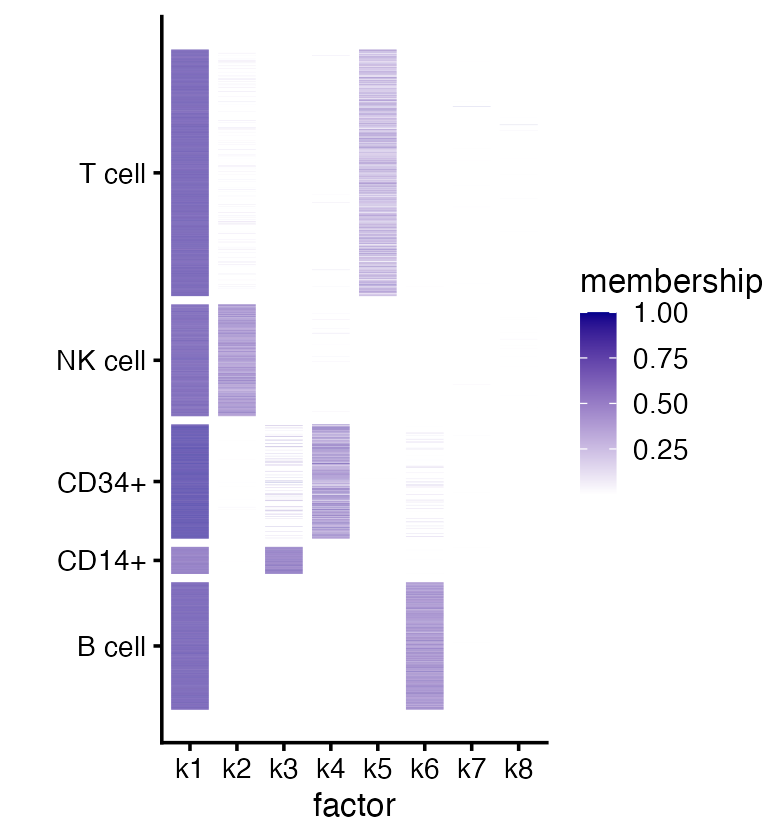
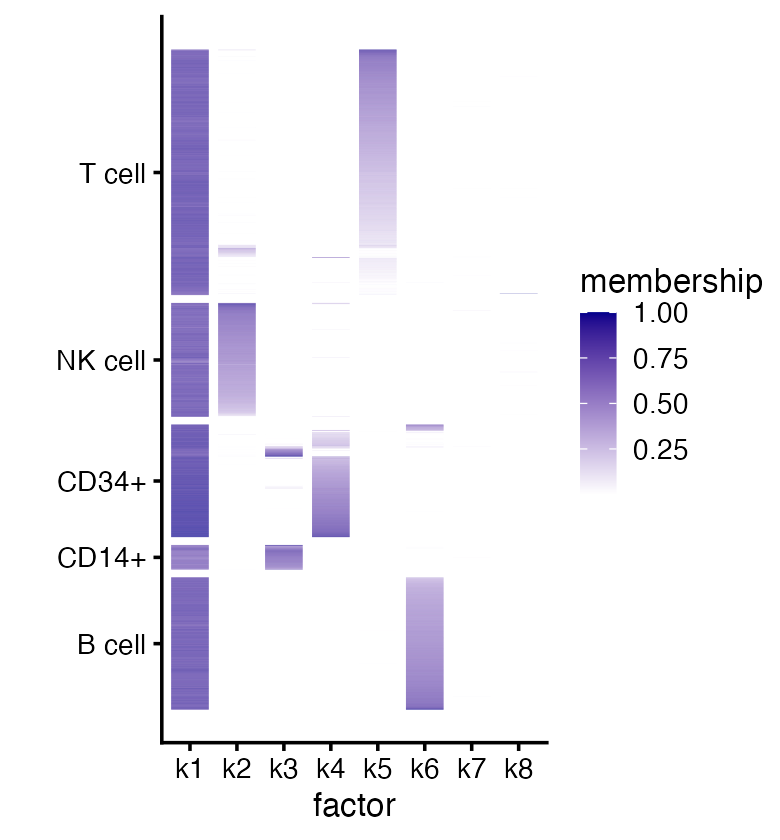
Reran pkgdown::build_article(flashier_single_cell).

diff --git a/docs/articles/flashier_single_cell.html b/docs/articles/flashier_single_cell.html
@@ -33,7 +33,7 @@
       </button>
       <span class="navbar-brand">
         <a class="navbar-link" href="../index.html">flashier</a>
-        <span class="version label label-default" data-toggle="tooltip" data-placement="bottom" title="">1.0.24</span>
+        <span class="version label label-default" data-toggle="tooltip" data-placement="bottom" title="">1.0.27</span>
       </span>
     </div>
 
@@ -88,6 +88,7 @@ that results can be fully reproduced.</p>
 <span><span class="kw"><a href="https://rdrr.io/r/base/library.html" class="external-link">library</a></span><span class="op">(</span><span class="va"><a href="https://github.com/willwerscheid/flashier" class="external-link">flashier</a></span><span class="op">)</span></span>
 <span><span class="kw"><a href="https://rdrr.io/r/base/library.html" class="external-link">library</a></span><span class="op">(</span><span class="va"><a href="https://stephenslab.github.io/fastTopics/" class="external-link">fastTopics</a></span><span class="op">)</span></span>
 <span><span class="kw"><a href="https://rdrr.io/r/base/library.html" class="external-link">library</a></span><span class="op">(</span><span class="va"><a href="https://ggplot2.tidyverse.org" class="external-link">ggplot2</a></span><span class="op">)</span></span>
+<span><span class="kw"><a href="https://rdrr.io/r/base/library.html" class="external-link">library</a></span><span class="op">(</span><span class="va"><a href="https://ggrepel.slowkow.com/" class="external-link">ggrepel</a></span><span class="op">)</span></span>
 <span><span class="kw"><a href="https://rdrr.io/r/base/library.html" class="external-link">library</a></span><span class="op">(</span><span class="va"><a href="https://wilkelab.org/cowplot/" class="external-link">cowplot</a></span><span class="op">)</span></span>
 <span><span class="fu"><a href="https://rdrr.io/r/base/Random.html" class="external-link">set.seed</a></span><span class="op">(</span><span class="fl">3</span><span class="op">)</span></span></code></pre></div>
 <div class="section level2">
@@ -102,8 +103,8 @@ identifier (UMI) counts stored as an <span class="math inline">\(n
 <span><span class="va">counts</span> <span class="op">&lt;-</span> <span class="va">pbmc_facs</span><span class="op">$</span><span class="va">counts</span></span>
 <span><span class="fu"><a href="https://rdrr.io/r/base/dim.html" class="external-link">dim</a></span><span class="op">(</span><span class="va">counts</span><span class="op">)</span></span>
 <span><span class="co">#&gt; [1]  3774 16791</span></span></code></pre></div>
-<p>(Note that other R packages, for example Seurat, use the convention
-that rows are genes and columns are cells.)</p>
+<p>(Note that other R packages, for example <a href="https://github.com/satijalab/seurat" class="external-link">Seurat</a>, use the
+convention that rows are genes and columns are cells.)</p>
 <p>Since the flashier model, like other linear-model-based methods
 (e.g., principal components analysis), was not designed for count data,
 it is recommended to first transform the data in a way that makes them
@@ -135,8 +136,7 @@ s_i =
 <span><span class="va">shifted_log_counts</span> <span class="op">&lt;-</span> <span class="fu"><a href="https://rdrr.io/r/base/Log.html" class="external-link">log1p</a></span><span class="op">(</span><span class="va">counts</span> <span class="op">/</span> <span class="op">(</span><span class="va">a</span> <span class="op">*</span> <span class="va">size_factors</span><span class="op">)</span><span class="op">)</span></span></code></pre></div>
 <p>Note that, since the counts are sparse, we could have performed this
 transformation more efficiently using, for example, the “mapSparse”
-function from <a href="https://github.com/david-cortes/MatrixExtra" class="external-link">the
-MatrixExtra package</a>.</p>
+function from <a href="https://github.com/david-cortes/MatrixExtra" class="external-link">MatrixExtra</a>.</p>
 </div>
 <div class="section level2">
 <h2 id="variance-regularization">Variance regularization<a class="anchor" aria-label="anchor" href="#variance-regularization"></a>
@@ -190,8 +190,8 @@ data:</p>
 non-negative, so this call will generate a non-negative matrix
 factorization (NMF) of the (transformed) counts matrix. Other types of
 matrix factorizations can be produced with different choices of the
-<code>ebnm_fn</code> argument; this is explained in detail in the
-“Introduction to flashier” vignette.</p></li>
+<code>ebnm_fn</code> argument; this is explained in detail in the <a href="https://willwerscheid.github.io/flashier/articles/flashier_intro.html" class="external-link">Introduction
+to flashier vignette</a>.</p></li>
 <li><p><code>var_type = 2</code> means that we estimate column-wise
 (here, gene-wise) variances; that is, we estimate a different variance
 for each column (gene).</p></li>
@@ -200,16 +200,24 @@ for each column (gene).</p></li>
 value,</strong> but to keep the example simple and short we set it to 8
 here.</p></li>
 </ul>
+<p>The plot method with default settings produces a “scree plot” showing
+the proportion of variance explained by each of the 8 factors:</p>
+<div class="sourceCode" id="cb6"><pre class="downlit sourceCode r">
+<code class="sourceCode R"><span><span class="fu"><a href="https://rdrr.io/r/graphics/plot.default.html" class="external-link">plot</a></span><span class="op">(</span><span class="va">fit</span>, order_by_pve <span class="op">=</span> <span class="cn">FALSE</span><span class="op">)</span></span></code></pre></div>
+<p><img src="flashier_single_cell_files/figure-html/scree-plot-1.png" width="360" style="display: block; margin: auto;"></p>
+<p>Factors 7 and 8 explain a very small proportion of variation (and
+probably offer little insight into the biology of these cells).</p>
 </div>
 <div class="section level2">
-<h2 id="visualizing-the-memberships">Visualizing the memberships<a class="anchor" aria-label="anchor" href="#visualizing-the-memberships"></a>
+<h2 id="visualizing-the-cell-matrix">Visualizing the cell matrix<a class="anchor" aria-label="anchor" href="#visualizing-the-cell-matrix"></a>
 </h2>
 <!-- Each cell in the single-cell data set is represented as a linear
 combination of the $K$ factors. -->
-<p>The estimated “membership levels”, or “memberships”, are stored in
-the <span class="math inline">\({\bf L}\)</span> matrix. For
+<p>In this non-negative matrix factorization produced by flashier, the
+rows of the <span class="math inline">\({\bf L}\)</span> matrix contains
+the estimated “membership levels,” or “memberships,” for each cell. For
 example:</p>
-<div class="sourceCode" id="cb6"><pre class="downlit sourceCode r">
+<div class="sourceCode" id="cb7"><pre class="downlit sourceCode r">
 <code class="sourceCode R"><span><span class="va">cell_ids</span> <span class="op">&lt;-</span> <span class="fu"><a href="https://rdrr.io/r/base/c.html" class="external-link">c</a></span><span class="op">(</span><span class="st">"GATATATGTCAGTG-1-b_cells"</span>,</span>
 <span>              <span class="st">"GACAGTACCTGTGA-1-memory_t"</span>,</span>
 <span>              <span class="st">"TGAAGCACACAGCT-1-b_cells"</span><span class="op">)</span></span>
@@ -225,95 +233,77 @@ of the memberships are zero.</p>
 the memberships and the cell labels, and possibly get some clues about
 the biological meaning of the factors. The cell labels are the “sorted”
 cell subpopulations:</p>
-<div class="sourceCode" id="cb7"><pre class="downlit sourceCode r">
+<div class="sourceCode" id="cb8"><pre class="downlit sourceCode r">
 <code class="sourceCode R"><span><span class="fu"><a href="https://rdrr.io/r/base/summary.html" class="external-link">summary</a></span><span class="op">(</span><span class="va">pbmc_facs</span><span class="op">$</span><span class="va">samples</span><span class="op">$</span><span class="va">subpop</span><span class="op">)</span></span>
 <span><span class="co">#&gt;  B cell   CD14+   CD34+ NK cell  T cell </span></span>
 <span><span class="co">#&gt;     767     163     687     673    1484</span></span></code></pre></div>
 <p>A structure plot is a stacked bar plot in which each factor is
 represented as a bar of a different color, and the bar heights are given
-by the membership levels. For a more effective visualization, we
-recommend extracting a rescaled version of the memberships using the
-<code>ldf</code> function:</p>
-<div class="sourceCode" id="cb8"><pre class="downlit sourceCode r">
-<code class="sourceCode R"><span><span class="va">res</span> <span class="op">&lt;-</span> <span class="fu"><a href="../reference/ldf.html">ldf</a></span><span class="op">(</span><span class="va">fit</span>, type <span class="op">=</span> <span class="st">"i"</span><span class="op">)</span></span></code></pre></div>
-<p>(Note that we can multiply the <span class="math inline">\(k\)</span>th column of <span class="math inline">\({\bf F}\)</span> by any constant scalar <span class="math inline">\(c &gt; 0\)</span> while also multiplying the <span class="math inline">\(k\)</span>th column of <span class="math inline">\({\bf L}\)</span> by <span class="math inline">\(1/c\)</span> without changing the low-rank
-representation, <span class="math inline">\({\bf L}{\bf
-F}^{\top}\)</span>.)</p>
-<p>Now we can visualize the rescaled memberships in a structure plot. To
-do this, we create a simple wrapper function that converts the flashier
-results into an object that is usable by the “structure_plot” function
-in fastTopics:</p>
+by the membership levels.</p>
 <div class="sourceCode" id="cb9"><pre class="downlit sourceCode r">
-<code class="sourceCode R"><span><span class="va">flashier_structure_plot</span> <span class="op">&lt;-</span> <span class="kw">function</span> <span class="op">(</span><span class="va">ldf</span>, <span class="va">topics</span>, <span class="va">grouping</span><span class="op">)</span> <span class="op">{</span></span>
-<span>  <span class="fu"><a href="https://rdrr.io/r/base/class.html" class="external-link">class</a></span><span class="op">(</span><span class="va">ldf</span><span class="op">)</span> <span class="op">&lt;-</span> <span class="fu"><a href="https://rdrr.io/r/base/c.html" class="external-link">c</a></span><span class="op">(</span><span class="st">"multinom_topic_model_fit"</span>, <span class="st">"list"</span><span class="op">)</span></span>
-<span>  <span class="va">p</span> <span class="op">&lt;-</span> <span class="fu"><a href="https://stephenslab.github.io/fastTopics/reference/structure_plot.html" class="external-link">structure_plot</a></span><span class="op">(</span><span class="va">ldf</span>, topics <span class="op">=</span> <span class="va">topics</span>, grouping <span class="op">=</span> <span class="va">grouping</span>, gap <span class="op">=</span> <span class="fl">20</span><span class="op">)</span> <span class="op">+</span></span>
-<span>    <span class="fu"><a href="https://ggplot2.tidyverse.org/reference/labs.html" class="external-link">labs</a></span><span class="op">(</span>y <span class="op">=</span> <span class="st">"membership"</span>, color <span class="op">=</span> <span class="st">"factor"</span>, fill <span class="op">=</span> <span class="st">"factor"</span><span class="op">)</span></span>
-<span>  <span class="kw"><a href="https://rdrr.io/r/base/function.html" class="external-link">return</a></span><span class="op">(</span><span class="va">p</span><span class="op">)</span></span>
-<span><span class="op">}</span></span>
-<span><span class="fu">flashier_structure_plot</span><span class="op">(</span><span class="va">res</span>, <span class="fu"><a href="https://rdrr.io/r/base/c.html" class="external-link">c</a></span><span class="op">(</span><span class="fl">2</span><span class="op">:</span><span class="fl">8</span>, <span class="fl">1</span><span class="op">)</span>, <span class="va">pbmc_facs</span><span class="op">$</span><span class="va">samples</span><span class="op">$</span><span class="va">subpop</span><span class="op">)</span></span></code></pre></div>
-<p><img src="flashier_single_cell_files/figure-html/structure-plot-1-1.png" width="840" style="display: block; margin: auto;"></p>
-<p>The first factor is present in all cell types, and is likely
-capturing a “baseline” level of expression throughout. To focus on
-differences between cell types, let’s remove this first factor from our
-structure plot:</p>
+<code class="sourceCode R"><span><span class="va">factor_colors</span> <span class="op">&lt;-</span> <span class="fu"><a href="https://rdrr.io/r/base/c.html" class="external-link">c</a></span><span class="op">(</span><span class="st">"#e41a1c"</span>,<span class="st">"#377eb8"</span>,<span class="st">"#4daf4a"</span>,<span class="st">"#984ea3"</span>,<span class="st">"#ff7f00"</span>,</span>
+<span>                   <span class="st">"#ffff33"</span>,<span class="st">"#a65628"</span>,<span class="st">"#f781bf"</span><span class="op">)</span></span>
+<span><span class="fu"><a href="https://rdrr.io/r/graphics/plot.default.html" class="external-link">plot</a></span><span class="op">(</span><span class="va">fit</span>, </span>
+<span>     order_by_pve <span class="op">=</span> <span class="cn">FALSE</span>,</span>
+<span>     pm_which <span class="op">=</span> <span class="st">"loadings"</span>, </span>
+<span>     pm_groups <span class="op">=</span> <span class="va">pbmc_facs</span><span class="op">$</span><span class="va">samples</span><span class="op">$</span><span class="va">subpop</span>,</span>
+<span>     pm_colors <span class="op">=</span> <span class="va">factor_colors</span>,</span>
+<span>     plot_type <span class="op">=</span> <span class="st">"structure"</span>,</span>
+<span>     gap <span class="op">=</span> <span class="fl">25</span><span class="op">)</span></span></code></pre></div>
+<p><img src="flashier_single_cell_files/figure-html/structure-plot-1-1.png" width="600" style="display: block; margin: auto;"></p>
+<p>Factor 1 (“k1” in the legend) is present in all cell types, and is
+likely capturing a “baseline” level of expression throughout. To focus
+on differences between cell types, let’s remove this first factor from
+our structure plot:</p>
 <div class="sourceCode" id="cb10"><pre class="downlit sourceCode r">
-<code class="sourceCode R"><span><span class="fu">flashier_structure_plot</span><span class="op">(</span><span class="va">res</span>, <span class="fl">2</span><span class="op">:</span><span class="fl">8</span>, <span class="va">pbmc_facs</span><span class="op">$</span><span class="va">samples</span><span class="op">$</span><span class="va">subpop</span><span class="op">)</span></span></code></pre></div>
-<p><img src="flashier_single_cell_files/figure-html/structure-plot-2-1.png" width="840" style="display: block; margin: auto;"></p>
-<p>It is quite clear from this structure plot that factors 2 through 6
-are capturing, respectively, natural killer (NK) cells, CD14+ cells,
-CD34+ cells, T cells and B cells. There is also more subtle structure
-captured by the memberships, such as the subset of T cells with mixed
-memberships (factors 2 and 5, colored blue and orange in the plot),
-which suggest a function that is intermediate between that of the “pure”
-T and the “pure” NK cells. It is also interesting to note the subset of
-CD34+ cells that are primarily loaded on factors 3 or 6 (yellow and
-green); some of these cells may be mislabeled.</p>
-<p>Note that factors 7 and 8 are present in very few cells and probably
-offer little insight:</p>
+<code class="sourceCode R"><span><span class="fu"><a href="https://rdrr.io/r/graphics/plot.default.html" class="external-link">plot</a></span><span class="op">(</span><span class="va">fit</span>, </span>
+<span>     kset <span class="op">=</span> <span class="fl">2</span><span class="op">:</span><span class="fl">8</span>,</span>
+<span>     order_by_pve <span class="op">=</span> <span class="cn">FALSE</span>,</span>
+<span>     pm_colors <span class="op">=</span> <span class="va">factor_colors</span><span class="op">[</span><span class="op">-</span><span class="fl">1</span><span class="op">]</span>,</span>
+<span>     pm_which <span class="op">=</span> <span class="st">"loadings"</span>, </span>
+<span>     pm_groups <span class="op">=</span> <span class="va">pbmc_facs</span><span class="op">$</span><span class="va">samples</span><span class="op">$</span><span class="va">subpop</span>,</span>
+<span>     plot_type <span class="op">=</span> <span class="st">"structure"</span>,</span>
+<span>     gap <span class="op">=</span> <span class="fl">25</span><span class="op">)</span></span></code></pre></div>
+<p><img src="flashier_single_cell_files/figure-html/structure-plot-2-1.png" width="600" style="display: block; margin: auto;"></p>
+<p>It is clear from this plot that factors 2 through 6 (“k2” through
+“k6” in the legend) are capturing, respectively, natural killer (NK)
+cells, CD14+ cells, CD34+ cells, T cells and B cells. There is also more
+subtle structure captured by the memberships, such as the subset of T
+cells with mixed memberships (factors 2 and 5) which suggests a
+subpopulation that is intermediate between “pure” T and “pure” NK cells.
+It is also interesting to note the subset of CD34+ cells that are
+primarily loaded on factor 3; some of these cells may be mislabeled.</p>
+<p>We can also visualize the cell matrix with a heatmap:</p>
 <div class="sourceCode" id="cb11"><pre class="downlit sourceCode r">
-<code class="sourceCode R"><span><span class="fu"><a href="https://rdrr.io/pkg/Matrix/man/colSums.html" class="external-link">colSums</a></span><span class="op">(</span><span class="va">res</span><span class="op">$</span><span class="va">L</span> <span class="op">&gt;</span> <span class="fl">0.01</span><span class="op">)</span></span>
-<span><span class="co">#&gt; [1] 3774  825  239  630 1420  826   20   18</span></span></code></pre></div>
-<!-- Others may have a hybrid function. -->
-<p>We can also visualize the memberships with a heatmap:</p>
-<div class="sourceCode" id="cb12"><pre class="downlit sourceCode r">
-<code class="sourceCode R"><span><span class="va">flashier_heatmap</span> <span class="op">&lt;-</span> <span class="kw">function</span> <span class="op">(</span><span class="va">L</span>, <span class="va">grouping</span>, <span class="va">gap</span> <span class="op">=</span> <span class="fl">0</span><span class="op">)</span> <span class="op">{</span></span>
-<span>  <span class="va">n</span> <span class="op">&lt;-</span> <span class="fu"><a href="https://rdrr.io/r/base/nrow.html" class="external-link">nrow</a></span><span class="op">(</span><span class="va">L</span><span class="op">)</span></span>
-<span>  <span class="va">k</span> <span class="op">&lt;-</span> <span class="fu"><a href="https://rdrr.io/r/base/nrow.html" class="external-link">ncol</a></span><span class="op">(</span><span class="va">L</span><span class="op">)</span></span>
-<span>  <span class="fu"><a href="https://rdrr.io/r/base/colnames.html" class="external-link">colnames</a></span><span class="op">(</span><span class="va">L</span><span class="op">)</span> <span class="op">&lt;-</span> <span class="fu"><a href="https://rdrr.io/r/base/paste.html" class="external-link">paste0</a></span><span class="op">(</span><span class="st">"k"</span>,<span class="fl">1</span><span class="op">:</span><span class="va">k</span><span class="op">)</span></span>
-<span>  <span class="va">rows</span> <span class="op">&lt;-</span> <span class="fu"><a href="https://rdrr.io/r/base/order.html" class="external-link">order</a></span><span class="op">(</span><span class="va">grouping</span><span class="op">)</span></span>
-<span>  <span class="va">pdat</span> <span class="op">&lt;-</span> <span class="fu"><a href="https://rdrr.io/pkg/reshape/man/melt-24.html" class="external-link">melt</a></span><span class="op">(</span><span class="fu"><a href="https://rdrr.io/r/base/as.data.frame.html" class="external-link">as.data.frame</a></span><span class="op">(</span><span class="va">L</span><span class="op">[</span><span class="va">rows</span>,<span class="op">]</span><span class="op">)</span>,variable_name <span class="op">=</span> <span class="st">"factor"</span><span class="op">)</span></span>
-<span>  <span class="va">pdat</span> <span class="op">&lt;-</span> <span class="fu"><a href="https://rdrr.io/r/base/cbind.html" class="external-link">cbind</a></span><span class="op">(</span><span class="va">pdat</span>,grouping <span class="op">=</span> <span class="va">grouping</span><span class="op">[</span><span class="va">rows</span><span class="op">]</span><span class="op">)</span></span>
-<span>  <span class="va">pdat</span> <span class="op">&lt;-</span> <span class="fu"><a href="https://rdrr.io/r/base/cbind.html" class="external-link">cbind</a></span><span class="op">(</span><span class="va">pdat</span>,pos <span class="op">=</span> <span class="fl">1</span><span class="op">:</span><span class="va">n</span> <span class="op">+</span> <span class="va">gap</span><span class="op">*</span><span class="fu"><a href="https://rdrr.io/r/base/numeric.html" class="external-link">as.numeric</a></span><span class="op">(</span><span class="va">pdat</span><span class="op">$</span><span class="va">grouping</span><span class="op">)</span><span class="op">)</span></span>
-<span>  <span class="kw"><a href="https://rdrr.io/r/base/function.html" class="external-link">return</a></span><span class="op">(</span><span class="fu"><a href="https://ggplot2.tidyverse.org/reference/ggplot.html" class="external-link">ggplot</a></span><span class="op">(</span><span class="va">pdat</span>,<span class="fu"><a href="https://ggplot2.tidyverse.org/reference/aes.html" class="external-link">aes</a></span><span class="op">(</span>x <span class="op">=</span> <span class="va">factor</span>,y <span class="op">=</span> <span class="va">pos</span>,fill <span class="op">=</span> <span class="va">value</span><span class="op">)</span><span class="op">)</span> <span class="op">+</span></span>
-<span>    <span class="fu"><a href="https://ggplot2.tidyverse.org/reference/geom_tile.html" class="external-link">geom_tile</a></span><span class="op">(</span>width <span class="op">=</span> <span class="fl">0.8</span><span class="op">)</span> <span class="op">+</span></span>
-<span>    <span class="fu"><a href="https://ggplot2.tidyverse.org/reference/scale_gradient.html" class="external-link">scale_fill_gradient</a></span><span class="op">(</span>low <span class="op">=</span> <span class="st">"white"</span>,high <span class="op">=</span> <span class="st">"darkblue"</span><span class="op">)</span> <span class="op">+</span></span>
-<span>    <span class="fu"><a href="https://ggplot2.tidyverse.org/reference/scale_continuous.html" class="external-link">scale_y_continuous</a></span><span class="op">(</span>breaks <span class="op">=</span> <span class="fu"><a href="https://rdrr.io/r/base/tapply.html" class="external-link">tapply</a></span><span class="op">(</span><span class="va">pdat</span><span class="op">$</span><span class="va">pos</span>,<span class="va">pdat</span><span class="op">$</span><span class="va">grouping</span>,<span class="va">mean</span><span class="op">)</span><span class="op">)</span> <span class="op">+</span></span>
-<span>    <span class="fu"><a href="https://ggplot2.tidyverse.org/reference/labs.html" class="external-link">labs</a></span><span class="op">(</span>y <span class="op">=</span> <span class="st">""</span>,fill <span class="op">=</span> <span class="st">"membership"</span><span class="op">)</span> <span class="op">+</span></span>
-<span>    <span class="fu"><a href="https://wilkelab.org/cowplot/reference/theme_cowplot.html" class="external-link">theme_cowplot</a></span><span class="op">(</span>font_size <span class="op">=</span> <span class="fl">10</span><span class="op">)</span><span class="op">)</span></span>
-<span><span class="op">}</span></span>
-<span><span class="fu">flashier_heatmap</span><span class="op">(</span><span class="va">res</span><span class="op">$</span><span class="va">L</span>,<span class="va">pbmc_facs</span><span class="op">$</span><span class="va">samples</span><span class="op">$</span><span class="va">subpop</span>,gap <span class="op">=</span> <span class="fl">50</span><span class="op">)</span></span></code></pre></div>
+<code class="sourceCode R"><span><span class="fu"><a href="https://rdrr.io/r/graphics/plot.default.html" class="external-link">plot</a></span><span class="op">(</span><span class="va">fit</span>, </span>
+<span>     order_by_pve <span class="op">=</span> <span class="cn">FALSE</span>,</span>
+<span>     pm_which <span class="op">=</span> <span class="st">"loadings"</span>, </span>
+<span>     pm_groups <span class="op">=</span> <span class="va">pbmc_facs</span><span class="op">$</span><span class="va">samples</span><span class="op">$</span><span class="va">subpop</span>,</span>
+<span>     plot_type <span class="op">=</span> <span class="st">"heatmap"</span>,</span>
+<span>     gap <span class="op">=</span> <span class="fl">25</span><span class="op">)</span></span></code></pre></div>
 <p><img src="flashier_single_cell_files/figure-html/heatmap-1.png" width="390" style="display: block; margin: auto;"></p>
 </div>
 <div class="section level2">
-<h2 id="interpreting-the-factors-by-looking-at-changes-in-expression">Interpreting the factors by looking at changes in expression<a class="anchor" aria-label="anchor" href="#interpreting-the-factors-by-looking-at-changes-in-expression"></a>
+<h2 id="visualizing-the-gene-matrix">Visualizing the gene matrix<a class="anchor" aria-label="anchor" href="#visualizing-the-gene-matrix"></a>
 </h2>
 <p>Above, we used the provided cell labels to interpret five of the
 factors as capturing distinct cell types (B cells, T cells, etc).
 However, one might not always have cell labels, or the existing cell
 labels may not be informative for the factors. We can also look to the
-<span class="math inline">\({\bf F}\)</span> matrix for interpreting the
-factors.</p>
-<p>The <span class="math inline">\({\bf F}\)</span> matrix contains the
-estimated changes in expression, specifically changes in expression on
-the log scale (multiplicative changes). (The exception to this is the
-first factor, which in this example is capturing a “baseline” level of
-expression.) Intuitively, genes that were estimated to have the largest
-increases in expression might give the most helpful clues about the
-underlying biology. For example, many of the genes with the largest
-expression increases in factor 6 are also genes characteristic of B
-cells:</p>
-<div class="sourceCode" id="cb13"><pre class="downlit sourceCode r">
-<code class="sourceCode R"><span><span class="cn">F</span> <span class="op">&lt;-</span> <span class="fu"><a href="https://rdrr.io/r/base/with.html" class="external-link">with</a></span><span class="op">(</span><span class="va">res</span>,<span class="cn">F</span> <span class="op"><a href="https://rdrr.io/r/base/matmult.html" class="external-link">%*%</a></span> <span class="fu"><a href="https://rdrr.io/r/base/diag.html" class="external-link">diag</a></span><span class="op">(</span><span class="va">D</span><span class="op">)</span><span class="op">)</span></span>
+<span class="math inline">\({\bf F}\)</span> matrix—the “gene
+matrix”—for interpreting the factors.</p>
+<p>The gene matrix contains estimates of gene expression changes.
+Because these estimates are based on the shifted log counts, more
+precisely they are <em>changes in the shifted log-expression.</em> The
+first factor captures a “baseline” level of expression, so, broadly
+speaking, we interpret these changes relative to this baseline.</p>
+<p>Genes that were estimated to have the largest increases in expression
+might give the most helpful clues about the underlying biology. For
+example, many of the genes with the largest expression increases in
+factor 6 are also genes characteristic of B cells:</p>
+<div class="sourceCode" id="cb12"><pre class="downlit sourceCode r">
+<code class="sourceCode R"><span><span class="va">res</span> <span class="op">&lt;-</span> <span class="fu"><a href="../reference/ldf.html">ldf</a></span><span class="op">(</span><span class="va">fit</span>, type <span class="op">=</span> <span class="st">"i"</span><span class="op">)</span></span>
+<span><span class="cn">F</span> <span class="op">&lt;-</span> <span class="fu"><a href="https://rdrr.io/r/base/with.html" class="external-link">with</a></span><span class="op">(</span><span class="va">res</span>, <span class="cn">F</span> <span class="op"><a href="https://rdrr.io/r/base/matmult.html" class="external-link">%*%</a></span> <span class="fu"><a href="https://rdrr.io/r/base/diag.html" class="external-link">diag</a></span><span class="op">(</span><span class="va">D</span><span class="op">)</span><span class="op">)</span></span>
 <span><span class="fu"><a href="https://rdrr.io/r/base/colnames.html" class="external-link">rownames</a></span><span class="op">(</span><span class="cn">F</span><span class="op">)</span> <span class="op">&lt;-</span> <span class="va">pbmc_facs</span><span class="op">$</span><span class="va">genes</span><span class="op">$</span><span class="va">symbol</span></span>
 <span><span class="fu"><a href="https://rdrr.io/r/utils/head.html" class="external-link">head</a></span><span class="op">(</span><span class="fu"><a href="https://rdrr.io/r/base/sort.html" class="external-link">sort</a></span><span class="op">(</span><span class="cn">F</span><span class="op">[</span>,<span class="fl">6</span><span class="op">]</span>,decreasing <span class="op">=</span> <span class="cn">TRUE</span><span class="op">)</span>,n <span class="op">=</span> <span class="fl">16</span><span class="op">)</span></span>
 <span><span class="co">#&gt;      CD74   HLA-DRA  HLA-DRB1     CD79A  HLA-DPB1  HLA-DPA1     CD79B  HLA-DRB5 </span></span>
@@ -322,7 +312,7 @@ cells:</p>
 <span><span class="co">#&gt; 1.6019631 1.4980763 1.3626036 1.1202287 1.1135809 1.0048497 0.9848164 0.9128516</span></span></code></pre></div>
 <p>Let’s now apply this simple rule-of-thumb and examine the top 4 genes
 (by expression increase) for factors 2 through 6:</p>
-<div class="sourceCode" id="cb14"><pre class="downlit sourceCode r">
+<div class="sourceCode" id="cb13"><pre class="downlit sourceCode r">
 <code class="sourceCode R"><span><span class="va">plot_top_genes</span> <span class="op">&lt;-</span> <span class="kw">function</span> <span class="op">(</span><span class="va">F</span>, <span class="va">n</span> <span class="op">=</span> <span class="fl">4</span><span class="op">)</span> <span class="op">{</span></span>
 <span>  <span class="cn">F</span> <span class="op">&lt;-</span> <span class="fu"><a href="https://rdrr.io/r/base/as.data.frame.html" class="external-link">as.data.frame</a></span><span class="op">(</span><span class="cn">F</span><span class="op">)</span></span>
 <span>  <span class="va">k</span> <span class="op">&lt;-</span> <span class="fu"><a href="https://rdrr.io/r/base/nrow.html" class="external-link">ncol</a></span><span class="op">(</span><span class="cn">F</span><span class="op">)</span></span>
@@ -343,12 +333,30 @@ cells:</p>
 <span><span class="fu">plot_top_genes</span><span class="op">(</span><span class="cn">F</span><span class="op">[</span>,<span class="fl">2</span><span class="op">:</span><span class="fl">6</span><span class="op">]</span><span class="op">)</span></span></code></pre></div>
 <p><img src="flashier_single_cell_files/figure-html/top-genes-all-1.png" width="300" style="display: block; margin: auto;"></p>
 <p>Indeed, this approach reveals genes characteristic of the other cell
-types (e.g., GNLY for NK cells, S100A9 for CD14+ cells), although not
-always; for example, some genes show large expression increases more
-than one factor.</p>
-<p>We caution that while this simple rule-of-thumb—annotating the
-factors by the genes with the largest increases in expression—worked
-well in this example, it may not always be helpful.</p>
+types (e.g., <em>GNLY</em> for NK cells, <em>S100A9</em> for CD14+
+cells), although not always; for example, some genes show large
+expression increases more than one factor.</p>
+<p>While selecting genes with the largest expression increases appears
+to work well here, in other settings there may be more effective
+approaches.</p>
+<p>Plot of mean vs. change for factor 6 (“B cells”), with top 10 genes
+(by largest increase):</p>
+<div class="sourceCode" id="cb14"><pre class="downlit sourceCode r">
+<code class="sourceCode R"><span><span class="va">mu</span> <span class="op">&lt;-</span> <span class="fu"><a href="https://rdrr.io/pkg/Matrix/man/colSums.html" class="external-link">colMeans</a></span><span class="op">(</span><span class="va">shifted_log_counts</span><span class="op">)</span></span>
+<span><span class="va">plot_change_vs_mean</span> <span class="op">&lt;-</span> <span class="kw">function</span> <span class="op">(</span><span class="va">fit</span>, <span class="va">mu</span>, <span class="va">genes</span>, <span class="va">k</span> <span class="op">=</span> <span class="fl">1</span>, <span class="va">n</span> <span class="op">=</span> <span class="fl">10</span><span class="op">)</span> <span class="op">{</span></span>
+<span>  <span class="va">pdat</span> <span class="op">&lt;-</span> <span class="fu"><a href="https://rdrr.io/r/base/data.frame.html" class="external-link">data.frame</a></span><span class="op">(</span>mean <span class="op">=</span> <span class="va">mu</span>,change <span class="op">=</span> <span class="fu"><a href="../reference/ldf.html">ldf</a></span><span class="op">(</span><span class="va">fit</span><span class="op">)</span><span class="op">$</span><span class="cn">F</span><span class="op">[</span>,<span class="va">k</span><span class="op">]</span>,gene <span class="op">=</span> <span class="va">genes</span><span class="op">)</span></span>
+<span>  <span class="va">rows</span> <span class="op">&lt;-</span> <span class="fu"><a href="https://rdrr.io/r/base/order.html" class="external-link">order</a></span><span class="op">(</span><span class="va">pdat</span><span class="op">$</span><span class="va">change</span>,decreasing <span class="op">=</span> <span class="cn">TRUE</span><span class="op">)</span></span>
+<span>  <span class="va">rows</span> <span class="op">&lt;-</span> <span class="va">rows</span><span class="op">[</span><span class="fl">1</span><span class="op">:</span><span class="va">n</span><span class="op">]</span></span>
+<span>  <span class="va">pdat</span><span class="op">[</span><span class="op">-</span><span class="va">rows</span>,<span class="st">"gene"</span><span class="op">]</span> <span class="op">&lt;-</span> <span class="st">""</span></span>
+<span>  <span class="kw"><a href="https://rdrr.io/r/base/function.html" class="external-link">return</a></span><span class="op">(</span><span class="fu"><a href="https://ggplot2.tidyverse.org/reference/ggplot.html" class="external-link">ggplot</a></span><span class="op">(</span><span class="va">pdat</span>,<span class="fu"><a href="https://ggplot2.tidyverse.org/reference/aes.html" class="external-link">aes</a></span><span class="op">(</span>x <span class="op">=</span> <span class="va">change</span>,y <span class="op">=</span> <span class="va">mean</span>,label <span class="op">=</span> <span class="va">gene</span><span class="op">)</span><span class="op">)</span> <span class="op">+</span></span>
+<span>         <span class="fu"><a href="https://ggplot2.tidyverse.org/reference/geom_point.html" class="external-link">geom_point</a></span><span class="op">(</span>shape <span class="op">=</span> <span class="fl">1</span>,color <span class="op">=</span> <span class="st">"dodgerblue"</span><span class="op">)</span> <span class="op">+</span></span>
+<span>         <span class="fu"><a href="https://ggrepel.slowkow.com/reference/geom_text_repel.html" class="external-link">geom_text_repel</a></span><span class="op">(</span>color <span class="op">=</span> <span class="st">"black"</span>,size <span class="op">=</span> <span class="fl">2.5</span>,max.overlaps <span class="op">=</span> <span class="cn">Inf</span><span class="op">)</span> <span class="op">+</span></span>
+<span>         <span class="fu"><a href="https://ggplot2.tidyverse.org/reference/labs.html" class="external-link">labs</a></span><span class="op">(</span>x <span class="op">=</span> <span class="st">"increase in shifted log-expression"</span>,</span>
+<span>              y <span class="op">=</span> <span class="st">"mean shifted log-expression"</span><span class="op">)</span> <span class="op">+</span></span>
+<span>         <span class="fu"><a href="https://wilkelab.org/cowplot/reference/theme_cowplot.html" class="external-link">theme_cowplot</a></span><span class="op">(</span>font_size <span class="op">=</span> <span class="fl">10</span><span class="op">)</span><span class="op">)</span></span>
+<span><span class="op">}</span></span>
+<span><span class="fu">plot_change_vs_mean</span><span class="op">(</span><span class="va">fit</span>,<span class="va">mu</span>,<span class="va">pbmc_facs</span><span class="op">$</span><span class="va">genes</span><span class="op">$</span><span class="va">symbol</span>,k <span class="op">=</span> <span class="fl">6</span><span class="op">)</span></span></code></pre></div>
+<p><img src="flashier_single_cell_files/figure-html/plot-change-vs-mean-1.png" width="360" style="display: block; margin: auto;"></p>
 </div>
 <div class="section level2">
 <h2 id="session-info">Session info<a class="anchor" aria-label="anchor" href="#session-info"></a>
@@ -375,31 +383,31 @@ these results.</p>
 <span><span class="co">#&gt; [1] stats     graphics  grDevices utils     datasets  methods   base     </span></span>
 <span><span class="co">#&gt; </span></span>
 <span><span class="co">#&gt; other attached packages:</span></span>
-<span><span class="co">#&gt; [1] cowplot_1.1.3      ggplot2_3.5.0      fastTopics_0.6-165 flashier_1.0.23   </span></span>
-<span><span class="co">#&gt; [5] magrittr_2.0.3     ebnm_1.1-25        reshape_0.8.9      Matrix_1.6-5      </span></span>
+<span><span class="co">#&gt; [1] cowplot_1.1.3      ggrepel_0.9.5      ggplot2_3.5.0      fastTopics_0.6-165</span></span>
+<span><span class="co">#&gt; [5] flashier_1.0.27    magrittr_2.0.3     ebnm_1.1-25        reshape_0.8.9     </span></span>
+<span><span class="co">#&gt; [9] Matrix_1.6-5      </span></span>
 <span><span class="co">#&gt; </span></span>
 <span><span class="co">#&gt; loaded via a namespace (and not attached):</span></span>
-<span><span class="co">#&gt;  [1] gtable_0.3.4       softImpute_1.4-1   xfun_0.42          bslib_0.6.1       </span></span>
-<span><span class="co">#&gt;  [5] htmlwidgets_1.6.4  ggrepel_0.9.5      lattice_0.22-5     quadprog_1.5-8    </span></span>
-<span><span class="co">#&gt;  [9] vctrs_0.6.5        tools_4.3.3        generics_0.1.3     parallel_4.3.3    </span></span>
-<span><span class="co">#&gt; [13] tibble_3.2.1       fansi_1.0.6        highr_0.10         pkgconfig_2.0.3   </span></span>
-<span><span class="co">#&gt; [17] data.table_1.15.2  SQUAREM_2021.1     desc_1.4.3         RcppParallel_5.1.7</span></span>
-<span><span class="co">#&gt; [21] lifecycle_1.0.4    truncnorm_1.0-9    farver_2.1.1       compiler_4.3.3    </span></span>
-<span><span class="co">#&gt; [25] stringr_1.5.1      progress_1.2.3     textshaping_0.3.7  munsell_0.5.0     </span></span>
-<span><span class="co">#&gt; [29] htmltools_0.5.7    sass_0.4.8         lazyeval_0.2.2     yaml_2.3.8        </span></span>
-<span><span class="co">#&gt; [33] plotly_4.10.4      crayon_1.5.2       pillar_1.9.0       pkgdown_2.0.7     </span></span>
-<span><span class="co">#&gt; [37] jquerylib_0.1.4    tidyr_1.3.1        uwot_0.1.16        cachem_1.0.8      </span></span>
-<span><span class="co">#&gt; [41] trust_0.1-8        gtools_3.9.5       tidyselect_1.2.0   digest_0.6.34     </span></span>
-<span><span class="co">#&gt; [45] Rtsne_0.17         stringi_1.8.3      dplyr_1.1.4        purrr_1.0.2       </span></span>
-<span><span class="co">#&gt; [49] ashr_2.2-64        labeling_0.4.3     splines_4.3.3      fastmap_1.1.1     </span></span>
-<span><span class="co">#&gt; [53] grid_4.3.3         colorspace_2.1-0   cli_3.6.2          invgamma_1.1      </span></span>
-<span><span class="co">#&gt; [57] utf8_1.2.4         withr_3.0.0        prettyunits_1.2.0  scales_1.3.0      </span></span>
-<span><span class="co">#&gt; [61] horseshoe_0.2.0    httr_1.4.7         rmarkdown_2.26     deconvolveR_1.2-1 </span></span>
-<span><span class="co">#&gt; [65] hms_1.1.3          ragg_1.2.7         pbapply_1.7-2      memoise_2.0.1     </span></span>
-<span><span class="co">#&gt; [69] evaluate_0.23      knitr_1.45         viridisLite_0.4.2  irlba_2.3.5.1     </span></span>
-<span><span class="co">#&gt; [73] rlang_1.1.3        Rcpp_1.0.12        mixsqp_0.3-54      glue_1.7.0        </span></span>
-<span><span class="co">#&gt; [77] jsonlite_1.8.8     R6_2.5.1           plyr_1.8.9         systemfonts_1.0.6 </span></span>
-<span><span class="co">#&gt; [81] fs_1.6.3</span></span></code></pre></div>
+<span><span class="co">#&gt;  [1] softImpute_1.4-1   gtable_0.3.4       xfun_0.42          bslib_0.6.1       </span></span>
+<span><span class="co">#&gt;  [5] htmlwidgets_1.6.4  lattice_0.22-5     quadprog_1.5-8     vctrs_0.6.5       </span></span>
+<span><span class="co">#&gt;  [9] tools_4.3.3        generics_0.1.3     parallel_4.3.3     tibble_3.2.1      </span></span>
+<span><span class="co">#&gt; [13] fansi_1.0.6        highr_0.10         pkgconfig_2.0.3    data.table_1.15.2 </span></span>
+<span><span class="co">#&gt; [17] SQUAREM_2021.1     desc_1.4.3         RcppParallel_5.1.7 lifecycle_1.0.4   </span></span>
+<span><span class="co">#&gt; [21] truncnorm_1.0-9    farver_2.1.1       compiler_4.3.3     progress_1.2.3    </span></span>
+<span><span class="co">#&gt; [25] textshaping_0.3.7  munsell_0.5.0      htmltools_0.5.7    sass_0.4.8        </span></span>
+<span><span class="co">#&gt; [29] lazyeval_0.2.2     yaml_2.3.8         plotly_4.10.4      crayon_1.5.2      </span></span>
+<span><span class="co">#&gt; [33] tidyr_1.3.1        pillar_1.9.0       pkgdown_2.0.7      jquerylib_0.1.4   </span></span>
+<span><span class="co">#&gt; [37] uwot_0.1.16        cachem_1.0.8       trust_0.1-8        gtools_3.9.5      </span></span>
+<span><span class="co">#&gt; [41] tidyselect_1.2.0   digest_0.6.34      Rtsne_0.17         dplyr_1.1.4       </span></span>
+<span><span class="co">#&gt; [45] purrr_1.0.2        ashr_2.2-64        labeling_0.4.3     splines_4.3.3     </span></span>
+<span><span class="co">#&gt; [49] fastmap_1.1.1      grid_4.3.3         colorspace_2.1-0   cli_3.6.2         </span></span>
+<span><span class="co">#&gt; [53] invgamma_1.1       utf8_1.2.4         withr_3.0.0        prettyunits_1.2.0 </span></span>
+<span><span class="co">#&gt; [57] scales_1.3.0       horseshoe_0.2.0    rmarkdown_2.26     httr_1.4.7        </span></span>
+<span><span class="co">#&gt; [61] deconvolveR_1.2-1  hms_1.1.3          ragg_1.2.7         memoise_2.0.1     </span></span>
+<span><span class="co">#&gt; [65] pbapply_1.7-2      evaluate_0.23      knitr_1.45         viridisLite_0.4.2 </span></span>
+<span><span class="co">#&gt; [69] irlba_2.3.5.1      rlang_1.1.3        Rcpp_1.0.12        mixsqp_0.3-54     </span></span>
+<span><span class="co">#&gt; [73] glue_1.7.0         jsonlite_1.8.8     R6_2.5.1           plyr_1.8.9        </span></span>
+<span><span class="co">#&gt; [77] systemfonts_1.0.6  fs_1.6.3</span></span></code></pre></div>
 </div>
   </div>
 
